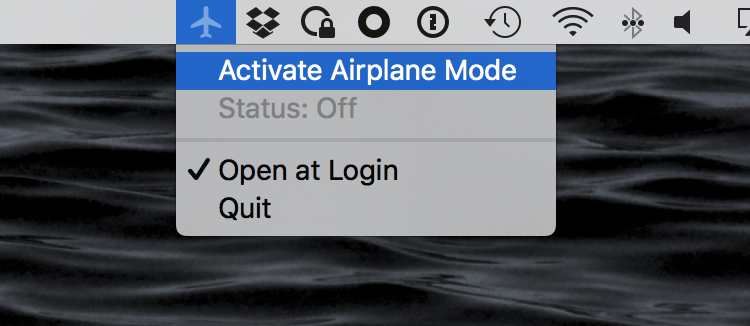
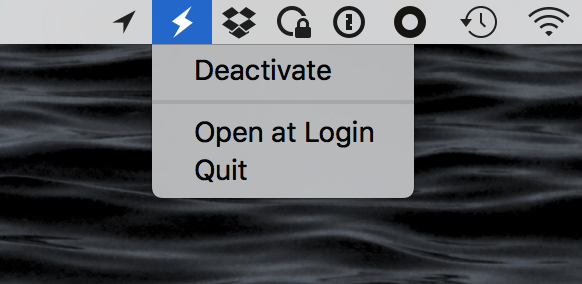
Update docs

diff --git a/README.md b/README.md
@@ -1,8 +1,8 @@
-# Airplane
+# Coffee
 
-An airplane mode applet for your Mac.
+An applet that prevents macOS from sleeping.
 
-![screenshot-1](https://raw.githubusercontent.com/nathanbuchar/airplane/master/docs/screenshot-1.png)
+![screenshot-1](https://raw.githubusercontent.com/nathanbuchar/coffee/master/docs/screenshot-1.png)
 
 ## License
 
@@ -11,4 +11,4 @@ Copyright &copy; 2017 [Nathan Buchar](mailto:hello@nathanbuchar.com). All Rights
 </br>
 </br>
 
-:airplane:
+:coffee:
